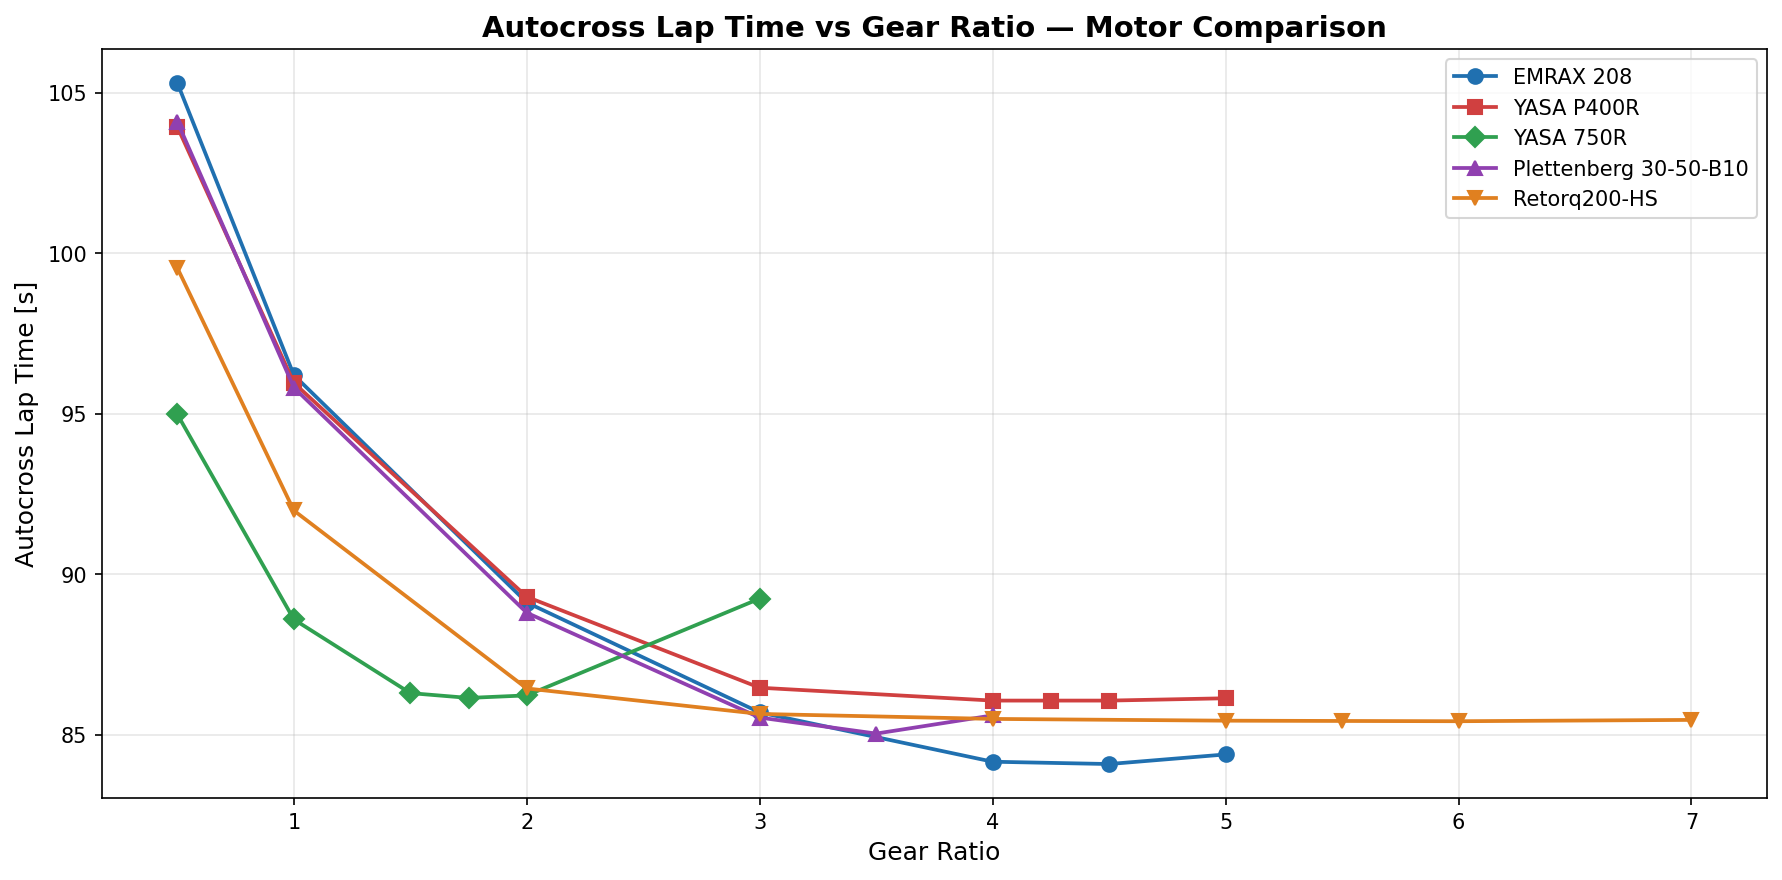
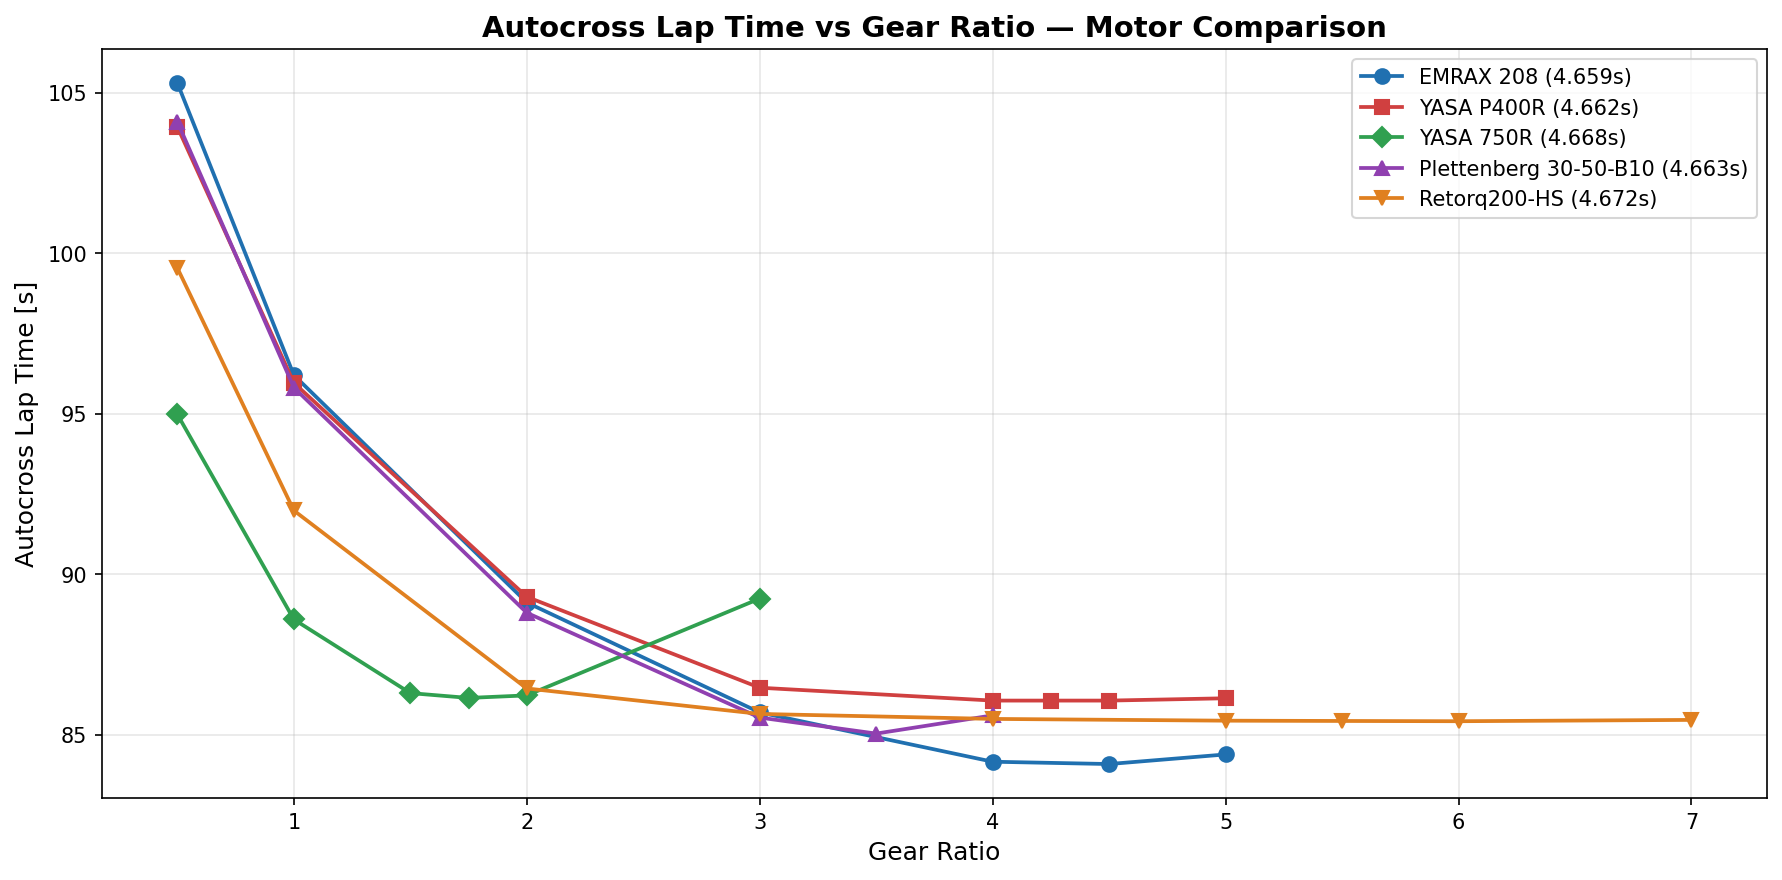
Changed default valuesexit

Changed region(s): [[0.7407, 0.0614, 0.9877, 0.2455]]

diff --git a/test/motor_gear_ratio_comparison.py b/test/motor_gear_ratio_comparison.py
@@ -35,6 +35,14 @@ MOTORS = {
     ),
 }
 
+SKIDPAD_TIMES = {
+    "EMRAX 208": 4.659,
+    "YASA P400R": 4.662,
+    "YASA 750R": 4.668,
+    "Plettenberg 30-50-B10": 4.663,
+    "Retorq200-HS": 4.672,
+}
+
 COLOURS = ["#2070B0", "#D04040", "#30A050", "#9040B0", "#E08020"]
 MARKERS = ["o", "s", "D", "^", "v"]
 
@@ -44,8 +52,9 @@ def plot_autocross_vs_gear_ratio():
 
     for i, (name, (gr, lt)) in enumerate(MOTORS.items()):
         gr, lt = np.array(gr), np.array(lt)
+        skidpad_t = SKIDPAD_TIMES[name]
         ax.plot(gr, lt, marker=MARKERS[i], color=COLOURS[i], linewidth=1.8,
-                markersize=7, label=name)
+                markersize=7, label=f"{name} ({skidpad_t:.3f}s)")
 
     ax.set_xlabel("Gear Ratio", fontsize=12)
     ax.set_ylabel("Autocross Lap Time [s]", fontsize=12)

diff --git a/gui/panels/control_panel.py b/gui/panels/control_panel.py
@@ -145,11 +145,11 @@ class ControlPanel(ttk.Frame):
         """Fallback default values if config file not found."""
         return {
             "vehicle": {
-                "mass_kg": 239,
+                "mass_kg": 226,
                 "g": 9.81,
                 "Crr": 0.015,
                 # Mass breakdown
-                "mass_chassis_kg": 55,
+                "mass_chassis_kg": 43.4,
                 "mass_aero_kg": 20,
                 "mass_suspension_tyres_kg": 50,
                 "mass_powertrain_kg": 42.6,  # 2× EMRAX 208 (9.4kg) + 2× DTI HV-850 (6.9kg) + 10kg overhead
@@ -353,7 +353,7 @@ class ControlPanel(ttk.Frame):
         self.mass_breakdown_entries = {}
 
         mass_components = [
-            ("mass_chassis_kg", "Chassis", 55),
+            ("mass_chassis_kg", "Chassis", 43.4),
             ("mass_aero_kg", "Aero Package", 20),
             ("mass_suspension_tyres_kg", "Suspension & Tyres", 50),
             ("mass_powertrain_kg", "Powertrain", 45),

diff --git a/gui/panels/results_panel.py b/gui/panels/results_panel.py
@@ -315,7 +315,7 @@ class ResultsPanel(ttk.Frame):
         """Fallback default config if no callback provided."""
         return {
             "vehicle": {
-                "mass_kg": 239,
+                "mass_kg": 226,
                 "g": 9.81,
                 "Crr": 0.015,
                 "mass_battery_kg": 45,  # 142S5P pack